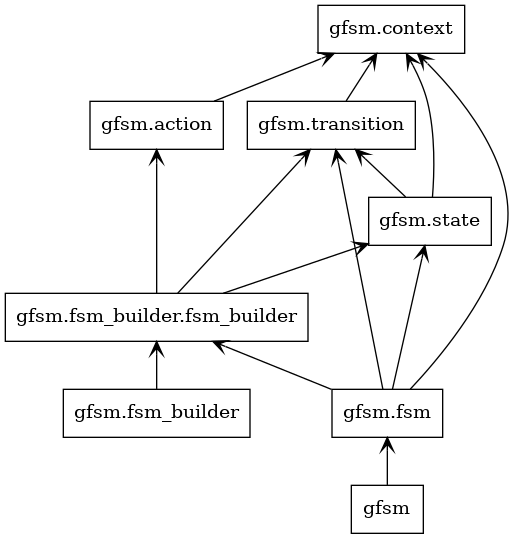
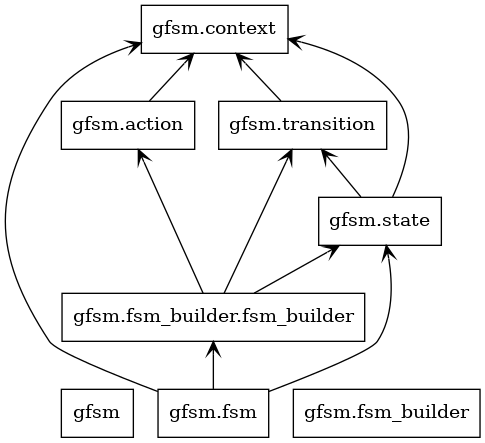
Separate context from engine - use as reference

diff --git a/docs/classes.html b/docs/classes.html
@@ -6,22 +6,14 @@
         classDiagram
           class Context {
             current_state_name
-            current_state_name
-            init_action
-            init_action
             get_user_data(key: str) Dict
             set_user_data(key: str, data: Dict) None
           }
           class FSM {
-            current_state_id
-            current_state_name
+            events
             init_action
-            number_of_states
-            state_names
-            dispatch(event_name)
-            get_user_data(key)
-            set_user_data(key, data)
-            start() None
+            states
+            dispatch(event_name, context: Context)
           }
           class FsmBuilder {
             events
@@ -47,13 +39,12 @@
             action
             end_action
             end_action : NoneType
-            name
+            name : str
             start_action
             start_action : NoneType
             target_name
             execute(context: Context) None
           }
-          Context --* FSM : _context
   
        </div>
   </body>

diff --git a/docs/packages.html b/docs/packages.html
@@ -20,13 +20,10 @@
           }
           class transition {
           }
-          gfsm --> fsm
           action --> context
           fsm --> context
           fsm --> fsm_builder
           fsm --> state
-          fsm --> transition
-          fsm_builder --> fsm_builder
           fsm_builder --> action
           fsm_builder --> state
           fsm_builder --> transition

diff --git a/gfsm/fsm.py b/gfsm/fsm.py
@@ -3,64 +3,33 @@
 '''
 
 from typing import Dict, List
+from gfsm.context import Context
 
 from gfsm.fsm_builder.fsm_builder import FsmBuilder
-from gfsm.context import Context
 from gfsm.state import State
 
 
 class FSM():
   def __init__(self, fsm_builder: FsmBuilder):
-    self._context = Context()
     fsm_builder.build()
     self._events: List[str] = fsm_builder.events
     self._states: Dict[str, State] = fsm_builder.states
-    self._context.current_state_name = fsm_builder.first_state_name
     self._init_action = fsm_builder.init_action
 
   @property
+  def events(self) -> List[str]:
+    return self._events
+
+  @property
+  def states(self) -> Dict[str, State]:
+    return self._states
+
+  @property
   def init_action(self):
-    return self._context.init_action
+    return self._init_action
 
-  @init_action.setter
-  def init_action(self, action):
-    self._context.init_action = action
-
-  @property
-  def state_names(self):
-    return list(self._states.keys())
-
-  @property
-  def number_of_states(self):
-    return len(self._states)
-
-  @property
-  def current_state_id(self):
-    current_state = self._states.get(self._context.current_state_name)
-    return current_state.id
-
-  @property
-  def current_state_name(self):
-    return self._context.current_state_name
-
-  def get_user_data(self, key):
-    return self._context.get_user_data(key)
-
-  def set_user_data(self, key, data):
-    self._context.set_user_data(key, data)
-    return
-
-  def start(self) -> None:
-    if self._init_action is not None:
-      self._init_action(self._context)
-    return
-
-  def dispatch(self, event_name):
+  def dispatch(self, event_name, context: Context):
     # get current state by name
-    current_state = self._states.get(self._context.current_state_name)
-    # TODO:
-    # get the state transition for the event from transitions list
-    # need to refactor builder
-    #
-    current_state.dispatch(self._context, event_name)
+    current_state = self._states.get(context.current_state_name)
+    current_state.dispatch(context, event_name)
     return

diff --git a/gfsm/context.py b/gfsm/context.py
@@ -1,34 +1,34 @@
-'''
-  This class maintains a reference to the current State
-  (is generally changed by executing transitions)
-  and functions as an object repository for actions.
-  Actions can store objects in the
-  context using the put method. The objects can later be
-  retrieved using the get method.
-  Whenever a new FSMContext object is created (FSM instantiation),
-  the init action is executed.
-  This action can be used to pre-define variables for
-  the actions in the FSM.
-'''
-
 from typing import Dict
 
 
 class Context():
-  def __init__(self, name: str = 'test context'):
+  '''
+    This class maintains a current State name
+    (is generally changed by executing transitions)
+    and functions as an object repository for actions.
+    Actions can store objects in the
+    context using the put method. The objects can later be
+    retrieved using the get method.
+    Whenever a new FSMContext object is created (FSM instantiation),
+    the init action is executed.
+    This action can be used to pre-define variables for
+    the actions in the FSM.
+  '''
+
+  def __init__(self, name: str):
     self._name = name
     self._data_repo = dict()
     self._current_state_name: str = ''
-    self._init_action = None
+    # self._init_action = None
 
-  @property
-  def init_action(self):
-    return self._init_action
+  # @property
+  # def init_action(self):
+  #   return self._init_action
 
-  @init_action.setter
-  def init_action(self, action):
-    self._init_action = action
-    return
+  # @init_action.setter
+  # def init_action(self, action):
+  #   self._init_action = action
+  #   return
 
   @property
   def current_state_name(self) -> str:

diff --git a/test/run.py b/test/run.py
@@ -6,6 +6,7 @@ import argparse
 import json
 
 from gfsm.fsm import FSM
+from gfsm.context import Context
 from gfsm.fsm_builder.fsm_builder import FsmBuilder
 
 # Construct the argument parser and parse the arguments
@@ -38,32 +39,33 @@ def main(**kwargs):
   fsm_def = readDef()
   # Create single fsm engine
   fsm_builder = FsmBuilder(fsm_conf, fsm_def)
-  # fsm_impl = fsm_builder.build()
-  # Instantiate the gfsm (create context)
   fsm = FSM(fsm_builder)
-  # Start the fsm engine with the context
-  fsm.start()
+  # create context
+  context = Context('test')
+  context.current_state_name = fsm_builder.first_state_name
+  # Start the fsm engine
+  # fsm.start()
 
-  # Run test
+  # Run test  
   # state start
-  fsm.dispatch('next')
+  fsm.dispatch('next', context)
   # state 1 
-  fsm.dispatch('prev')
-  fsm.dispatch('next')
-  fsm.dispatch('current')
-  fsm.dispatch('next')
+  fsm.dispatch('prev', context)
+  fsm.dispatch('next', context)
+  fsm.dispatch('current', context)
+  fsm.dispatch('next', context)
   # state 2
-  fsm.dispatch('prev')
-  fsm.dispatch('next')
-  fsm.dispatch('current')
-  fsm.dispatch('next')
+  fsm.dispatch('prev', context)
+  fsm.dispatch('next', context)
+  fsm.dispatch('current', context)
+  fsm.dispatch('next', context)
   # state 3
-  fsm.dispatch('prev')
-  fsm.dispatch('next')
-  fsm.dispatch('current')
-  fsm.dispatch('next')
+  fsm.dispatch('prev', context)
+  fsm.dispatch('next', context)
+  fsm.dispatch('current', context)
+  fsm.dispatch('next', context)
   # state end
-  fsm.dispatch('prev')
+  fsm.dispatch('prev', context)
 
 
 

diff --git a/gfsm/transition.py b/gfsm/transition.py
@@ -1,41 +1,43 @@
-'''
-  The transition object has method: execute(). This method is called by a State
-  when an event is dispatched that triggers the transition
-'''
-
+from typing import Callable
 from gfsm.context import Context
 
 
 class Transition():
-  def __init__(self, name, target_name: str, action):
+  '''
+    The transition object has method: execute().
+    This method is called by a State
+    when an event is dispatched that triggers the transition
+  '''
+
+  def __init__(self, name: str, target_name: str, action: Callable):
     self.name = name
     self._target_name = target_name
     self._action = action
-    self._start_action = None
-    self._end_action = None
+    self._start_action: Callable = None
+    self._end_action: Callable = None
 
   @property
   def target_name(self) -> str:
     return self._target_name
 
   @property
-  def action(self):
+  def action(self) -> Callable:
     return self._action
 
   @property
-  def start_action(self):
+  def start_action(self) -> Callable:
     return self._start_action
 
   @start_action.setter
-  def start_action(self, action):
+  def start_action(self, action: Callable):
     self._start_action = action
 
   @property
-  def end_action(self):
+  def end_action(self) -> Callable:
     return self._end_action
 
   @end_action.setter
-  def end_action(self, action):
+  def end_action(self, action: Callable):
     self._end_action = action
 
   def execute(self, context: Context) -> None:

diff --git a/gfsm/state.py b/gfsm/state.py
@@ -11,7 +11,7 @@
   method for the target State is executed
 '''
 
-from typing import Dict
+from typing import Callable, Dict
 
 from gfsm.context import Context
 from gfsm.transition import Transition
@@ -44,20 +44,20 @@ class State():
     return
 
   @property
-  def entry_action(self):
+  def entry_action(self) -> Callable:
     return self._entry_action
 
   @entry_action.setter
-  def entry_action(self, action):
+  def entry_action(self, action: Callable) -> None:
     self._entry_action = action
     return
 
   @property
-  def exit_action(self):
+  def exit_action(self) -> Callable:
     return self._exit_action
 
   @exit_action.setter
-  def exit_action(self, action):
+  def exit_action(self, action: Callable) -> None:
     self._exit_action = action
     return
 
